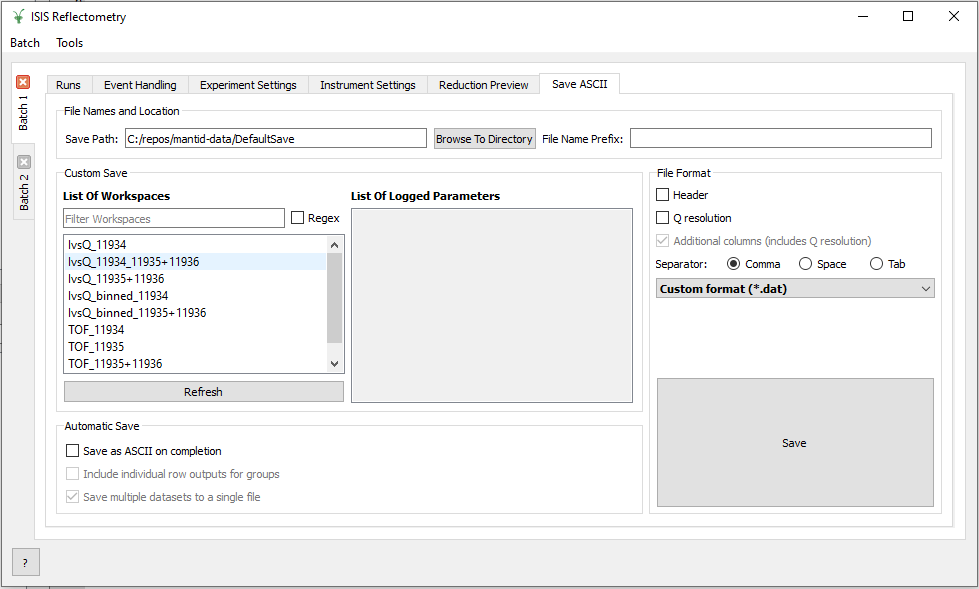
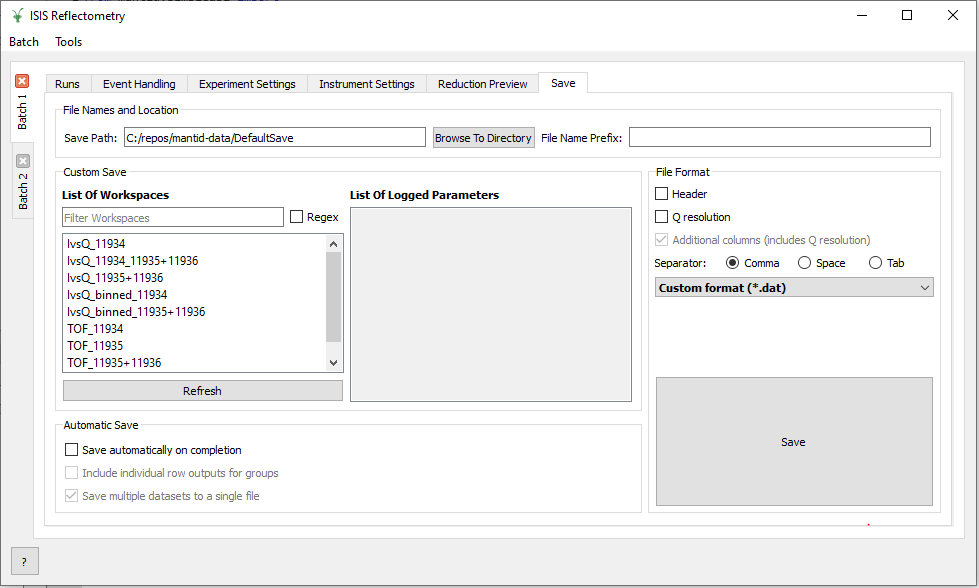
Update user Reflectometry GUI docs

Changed region(s): [[0.0, 0.0, 1.0, 0.9796], [0.0, 0.9184, 0.0306, 0.9796], [0.7967, 0.7347, 0.8274, 0.7653]]

diff --git a/docs/source/interfaces/reflectometry/ISIS Reflectometry.rst b/docs/source/interfaces/reflectometry/ISIS Reflectometry.rst
@@ -177,7 +177,7 @@ Batches
 
 The main window contains one or more "Batches", which are shown as vertical
 tabs on the left. Each Batch contains a group of settings tabs (Runs, Event
-Handling, Experiment, Instrument and Save ASCII). Together, these provide all
+Handling, Experiment, Instrument and Save). Together, these provide all
 of the settings for a particular reduction.
 
 .. figure:: /images/ISISReflectometryInterface/batches.png
@@ -885,12 +885,13 @@ exactly the **same reduction** as a normal batch reduction, aside from the regio
 using the graphical selection tool.
 
 .. _refl_save_ascii:
+.. _refl_save:
 
-Save ASCII Tab
-~~~~~~~~~~~~~~
+Save Tab
+~~~~~~~~
 
-The **Save ASCII** tab allows for processed workspaces to be saved in specific
-ASCII formats. The filenames are saved in the form [Prefix][Workspace Name].[ext].
+The **Save** tab allows for processed workspaces to be saved in specific
+formats. The filenames are saved in the form [Prefix][Workspace Name].[ext].
 See :ref:`algm-SaveReflectometryAscii` and :ref:`algm-SaveISISReflectometryORSO`
 for a description of the supported formats.
 
@@ -898,9 +899,9 @@ for a description of the supported formats.
   :class: screenshot
   :width: 800px
   :align: center
-  :alt: The save ASCII tab
+  :alt: The save tab
 
-  *The save ASCII tab*
+  *The save tab*
 
 +-------------------------------+------------------------------------------------------+
 | Name                          | Description                                          |
@@ -939,17 +940,19 @@ for a description of the supported formats.
 |                               | to contain multiple parameter notes.                 |
 +-------------------------------+------------------------------------------------------+
 | File format                   | This dialog can save to ANSTO, ILL cosmos, 3-column, |
-|                               | ORSO and a customisable format. It doesn't save from |
-|                               | the main interface's table, but from workspaces      |
-|                               | loaded into mantid. All algorithms are also          |
-|                               | available as save algorithms from mantid itself.     |
+|                               | ORSO Ascii, ORSO Nexus and a customisable format. It |
+|                               | doesn't save from the main interface's table, but    |
+|                               | from workspaces loaded into mantid. All algorithms   |
+|                               | are also available as save algorithms from mantid    |
+|                               | itself.                                              |
 +-------------------------------+------------------------------------------------------+
 | Custom Format Options         | When saving in 'Custom' this section allows you      |
 |                               | to specify if you want a Header and/or Q Resolution  |
 |                               | column as well as specifying the delimiter.          |
 +-------------------------------+------------------------------------------------------+
-| ORSO Format Options           | When saving in the ORSO format you can specify if you|
-|                               | want a Q Resolution column. You can also use the     |
+| ORSO Format Options           | You can save into either the ORSO Ascii or ORSO Nexus|
+|                               | format. For either format, you can specify whether to|
+|                               | include a Q Resolution column. You can also use the  |
 |                               | ``Additional columns (includes Q resolution)``       |
 |                               | option to request Q Resolution, Lambda, dLambda,     |
 |                               | Theta and dTheta columns (this is selected by        |
@@ -968,7 +971,8 @@ for a description of the supported formats.
 |                               | ``Save multiple datasets to a single file`` option   |
 |                               | can be used to save them all into a single file.     |
 |                               | This option is only available when auto-saving into  |
-|                               | the ORSO format, where it is selected by default.    |
+|                               | one of the ORSO formats, where it is selected by     |
+|                               | default.                                             |
 +-------------------------------+------------------------------------------------------+
 
 Troubleshooting
